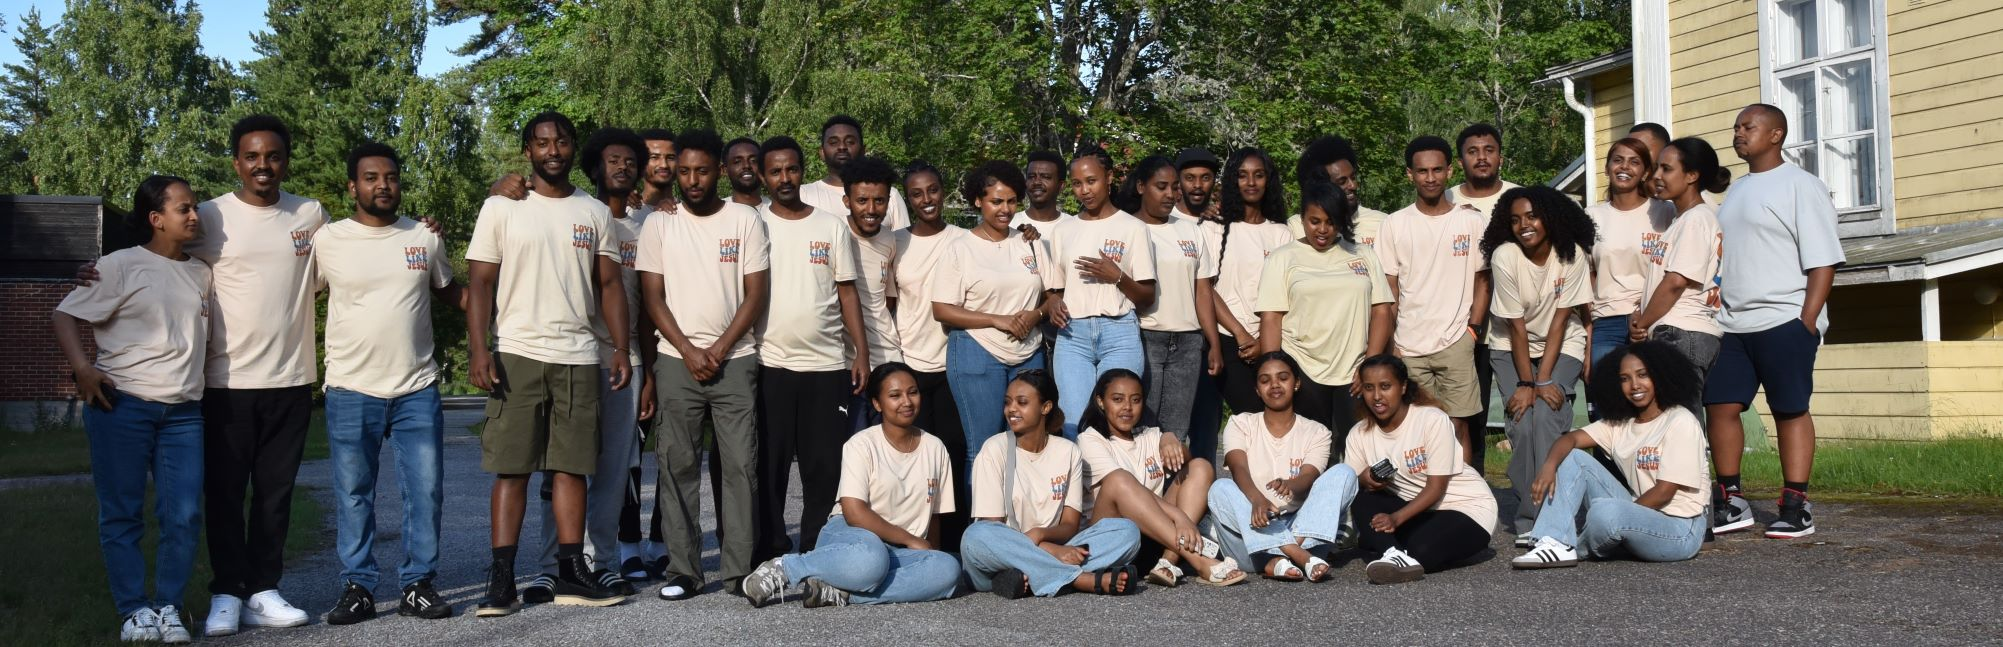
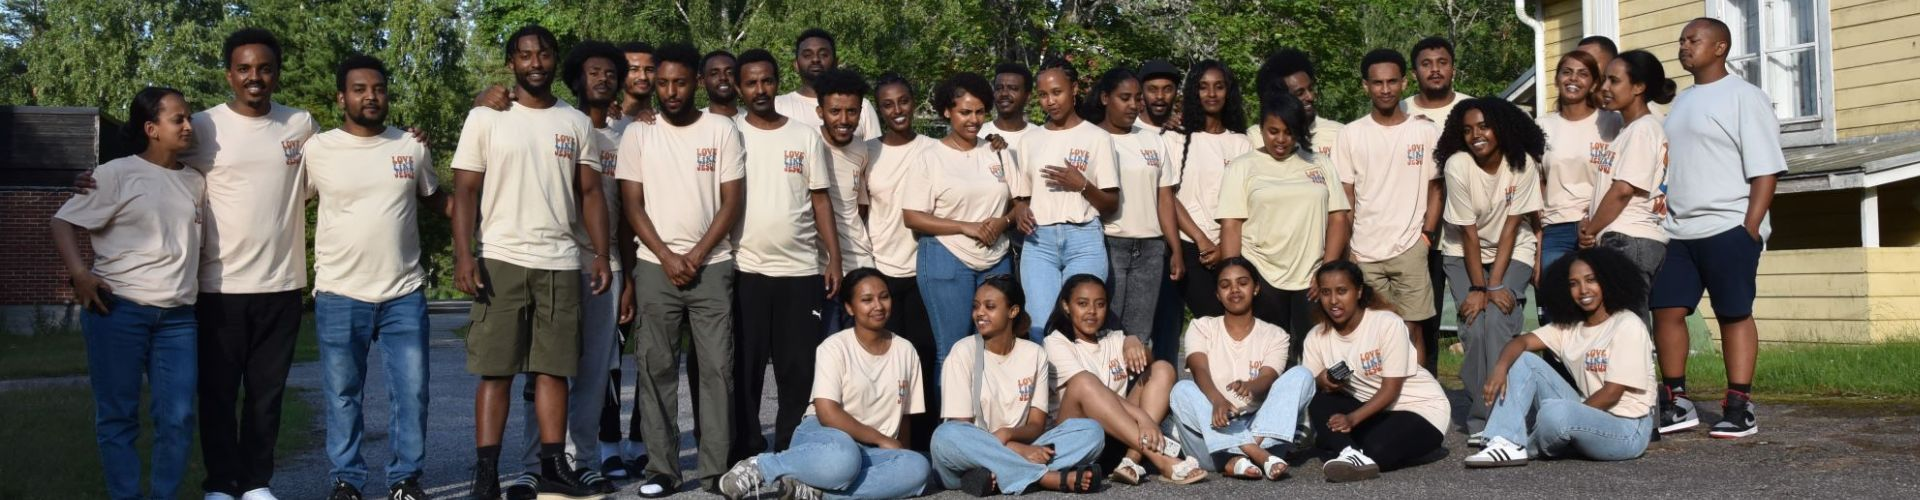
fixed!

diff --git a/src/components/home/FeaturesSection.tsx b/src/components/home/FeaturesSection.tsx
@@ -95,7 +95,7 @@ const FeaturesSection = () => {
                       <div className="space-y-1 text-sm text-gray-700">
                         <div className="flex items-center gap-2">
                           <Mic className="h-3 w-3" />
-                          <span>Sunday Worship: 17:00 </span>
+                          <span>Sunday Worship: 10:00 AM</span>
                         </div>
                         <div className="flex items-center gap-2">
                           <MapPin className="h-3 w-3" />

diff --git a/src/pages/Sermons.tsx b/src/pages/Sermons.tsx
@@ -183,7 +183,7 @@ const Sermons = () => {
           <Alert className="bg-blue-50 border-blue-100">
             <Info className="h-4 w-4 text-blue-500" />
             <AlertDescription className="text-blue-700">
-              Our service times: <strong>Sunday 17:00</strong> • Live streaming available
+              Our service times: <strong>Sunday 10:00 AM</strong> • Live streaming available
             </AlertDescription>
           </Alert>
 

diff --git a/src/lib/sliderService.ts b/src/lib/sliderService.ts
@@ -41,8 +41,8 @@ export const fetchSlides = async (): Promise<SlideImage[]> => {
       {
         fileName: 'YouthCover.jpg',
         overlay: {
-          title: "በጸሎት ጽኑ",
-          subtitle: " - ሮሜ 12:12"
+          title: "በጸሎት ጽኑበመንፈስ የምትቃጠሉ ሁኑ::",
+          subtitle: " - ሮሜ 12:11"
         }
       },
       {

diff --git a/src/components/contact/ContactInfo.tsx b/src/components/contact/ContactInfo.tsx
@@ -48,7 +48,7 @@ const ContactInfo = () => {
           <div>
             <h3 className="text-lg font-semibold mb-1">Service Times</h3>
             <p className="text-gray-600">
-              Weekly Sunday: 17:00 <br />
+              Weekly Sunday: 10:00 AM<br />
             </p>
           </div>
         </div>

diff --git a/src/components/Footer.tsx b/src/components/Footer.tsx
@@ -66,7 +66,7 @@ const Footer = () => {
               </a>
             </div>
             <p className="text-sm">
-              Join us for worship every Sunday at 17:00 !
+              Join us for worship every Sunday at 10:00 AM
             </p>
           </div>
         </div>
